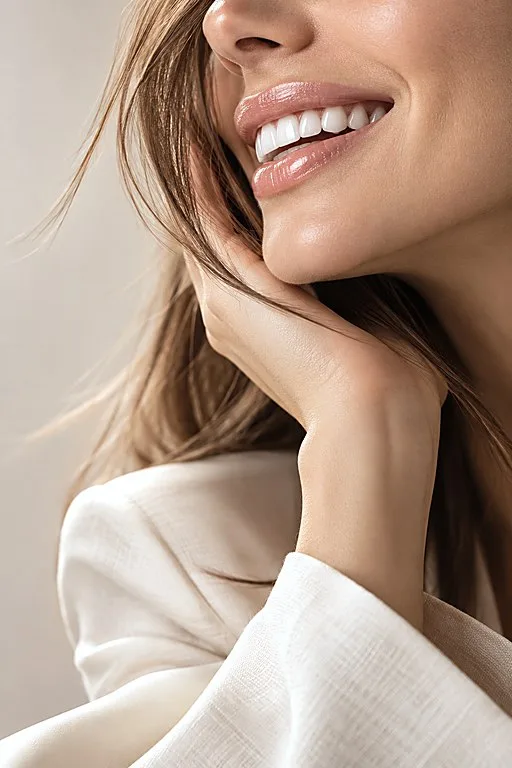
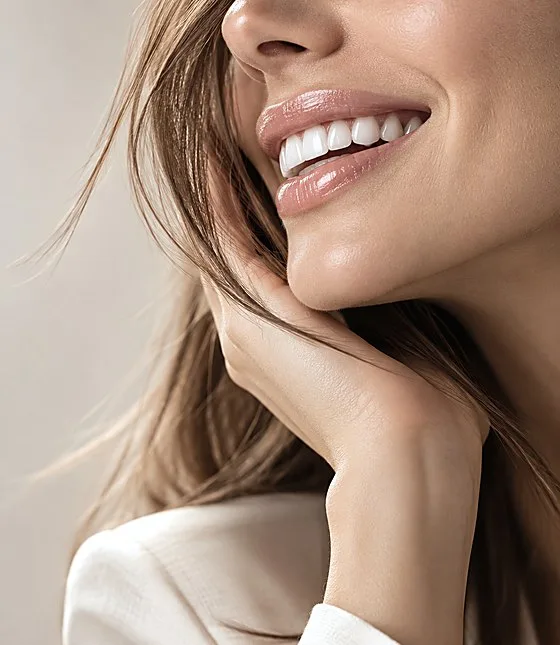
Galería nueva de cinco fotos y la portada centrada en la sonrisa
Galería
- Las cinco fotografías nuevas del consultorio, con la recepción primero.
  Todas a 4:5, el mismo tamaño y la misma calidez, para que se lean como
  una sola sesión.
- Cinco no reparte en filas limpias: a tres columnas quedan dos huecos, a
  dos queda uno. Las dos únicas distribuciones sin hueco son una fila de
  cinco y una tira que se desliza, así que se usa cada una donde cabe:
  rejilla de cinco a partir de 62em, tira con scroll-snap por debajo.
- La sección volvió sola al haber fotos, como estaba previsto.

Portada
- Recortado el faldón de abajo en las dos tomas, la del teléfono y la de
  escritorio. La sonrisa pasa de ocupar un quinto del encuadre a casi un
  tercio, que es lo que tiene que mandar.
- Las proporciones del CSS siguen a las de los archivos nuevos.

diff --git a/index.html b/index.html
@@ -206,10 +206,10 @@
            teléfono y la apaisada para escritorio. El <source media> deja que
            el navegador se baje solo la que le toca. -->
       <picture class="hero__bg">
-        <source media="(min-width: 56.25em)" type="image/webp" srcset="/assets/img/portada-ancha.webp 836w, /assets/img/portada-ancha@2x.webp 1672w" sizes="100vw">
+        <source media="(min-width: 56.25em)" type="image/webp" srcset="/assets/img/portada-ancha.webp 880w, /assets/img/portada-ancha@2x.webp 1760w" sizes="100vw">
         <source media="(min-width: 56.25em)" srcset="/assets/img/portada-ancha.jpg">
-        <source type="image/webp" srcset="/assets/img/portada-movil.webp 512w, /assets/img/portada-movil@2x.webp 1024w" sizes="100vw">
-        <img src="/assets/img/portada-movil.jpg" width="512" height="768" alt="Primer plano de una sonrisa, con la mano bajo el mentón" fetchpriority="high" decoding="async">
+        <source type="image/webp" srcset="/assets/img/portada-movil.webp 560w, /assets/img/portada-movil@2x.webp 1120w" sizes="100vw">
+        <img src="/assets/img/portada-movil.jpg" width="560" height="645" alt="Primer plano de una sonrisa, con la mano bajo el mentón" fetchpriority="high" decoding="async">
       </picture>
     </div>
   </section>
@@ -710,12 +710,42 @@
   <!-- ===== 12. El estudio ===== -->
   <section class="section" id="estudio">
     <div class="wrap">
-      <!-- Galería vacía a la espera de las fotos nuevas del consultorio.
-           Mientras no haya ningún <li>, js/main.js retira la sección entera
-           para que no quede un hueco en la página. En cuanto se añadan las
-           fotos aquí, la sección vuelve sola: no hay que tocar nada más.
-           Las fotos anteriores siguen en scripts/fotos-clinica/. -->
-      <ul class="galeria"></ul>
+      <!-- Las cinco a la misma proporción, 4:5, y en una sola fila en
+           escritorio: cinco no reparte en filas limpias, así que cualquier
+           otra rejilla deja huecos. Por debajo de 62em pasa a una tira que
+           se desliza con el dedo, que tampoco los deja. -->
+      <ul class="galeria">
+        <li class="galeria__foto rv" data-foto="recepcion">
+          <picture>
+            <source type="image/webp" srcset="/assets/img/clinica/recepcion.webp 640w, /assets/img/clinica/recepcion@2x.webp 1280w" sizes="(min-width: 62em) 19vw, 72vw">
+            <img src="/assets/img/clinica/recepcion.jpg" srcset="/assets/img/clinica/recepcion.jpg 640w, /assets/img/clinica/recepcion@2x.jpg 1280w" sizes="(min-width: 62em) 19vw, 72vw" width="640" height="800" loading="lazy" decoding="async" alt="Recepción de Dear Blanc, con el logotipo retroiluminado sobre el muro">
+          </picture>
+        </li>
+        <li class="galeria__foto rv" data-foto="cafe">
+          <picture>
+            <source type="image/webp" srcset="/assets/img/clinica/cafe.webp 640w, /assets/img/clinica/cafe@2x.webp 1280w" sizes="(min-width: 62em) 19vw, 72vw">
+            <img src="/assets/img/clinica/cafe.jpg" srcset="/assets/img/clinica/cafe.jpg 640w, /assets/img/clinica/cafe@2x.jpg 1280w" sizes="(min-width: 62em) 19vw, 72vw" width="640" height="800" loading="lazy" decoding="async" alt="Vaso de la casa y servilleta sobre la charola, en la sala de espera">
+          </picture>
+        </li>
+        <li class="galeria__foto rv" data-foto="escaner">
+          <picture>
+            <source type="image/webp" srcset="/assets/img/clinica/escaner.webp 640w, /assets/img/clinica/escaner@2x.webp 1280w" sizes="(min-width: 62em) 19vw, 72vw">
+            <img src="/assets/img/clinica/escaner.jpg" srcset="/assets/img/clinica/escaner.jpg 640w, /assets/img/clinica/escaner@2x.jpg 1280w" sizes="(min-width: 62em) 19vw, 72vw" width="640" height="800" loading="lazy" decoding="async" alt="Especialista revisando el escaneo de la sonrisa en una tableta">
+          </picture>
+        </li>
+        <li class="galeria__foto rv" data-foto="unidad">
+          <picture>
+            <source type="image/webp" srcset="/assets/img/clinica/unidad.webp 640w, /assets/img/clinica/unidad@2x.webp 1280w" sizes="(min-width: 62em) 19vw, 72vw">
+            <img src="/assets/img/clinica/unidad.jpg" srcset="/assets/img/clinica/unidad.jpg 640w, /assets/img/clinica/unidad@2x.jpg 1280w" sizes="(min-width: 62em) 19vw, 72vw" width="640" height="800" loading="lazy" decoding="async" alt="Unidad dental del consultorio, con el vaso de la casa y el lavabo al fondo">
+          </picture>
+        </li>
+        <li class="galeria__foto rv" data-foto="paciente">
+          <picture>
+            <source type="image/webp" srcset="/assets/img/clinica/paciente.webp 640w, /assets/img/clinica/paciente@2x.webp 1280w" sizes="(min-width: 62em) 19vw, 72vw">
+            <img src="/assets/img/clinica/paciente.jpg" srcset="/assets/img/clinica/paciente.jpg 640w, /assets/img/clinica/paciente@2x.jpg 1280w" sizes="(min-width: 62em) 19vw, 72vw" width="640" height="800" loading="lazy" decoding="async" alt="Paciente en el sillón, con audífonos y una bebida de la casa">
+          </picture>
+        </li>
+      </ul>
 
 </section>
 

diff --git a/css/editorial.css b/css/editorial.css
@@ -723,7 +723,7 @@ h3 {
      izquierda se convertía en una zona muerta enorme bajo el titular. Con
      la proporción de la imagen no sobra ni falta nada. */
   .hero {
-    min-height: 0; aspect-ratio: 1672 / 941;
+    min-height: 0; aspect-ratio: 1672 / 735;   /* la del archivo, recortado sobre la sonrisa */
     display: block; padding-block: 0;
     position: relative;
   }
@@ -767,7 +767,7 @@ h3 {
      que recortaba la cabeza era este margen. */
   /* En móvil entra la toma vertical, que ya viene encuadrada: no hay que
      recortarla, solo dejarla caer entera bajo el texto. */
-  .hero__bg { aspect-ratio: 2 / 3; margin-top: clamp(-1.25rem, -3vw, -.75rem); }
+  .hero__bg { aspect-ratio: 1024 / 1180; margin-top: clamp(-1.25rem, -3vw, -.75rem); }
   /* 90% y no 76%: ella está a dos tercios del encuadre original, así que
      con menos el recorte la dejaba a la izquierda y sobraba fondo a la
      derecha. Medido sobre la imagen escalada, 90% la centra. */
@@ -1498,44 +1498,44 @@ h3 { font-size: clamp(1.05rem, 1.7vw, 1.3rem); line-height: 1.3; }
    las acomoda solo y respeta la proporción de cada toma, que no es la misma
    en todas (cinco verticales, dos apaisadas).
    ========================================================================== */
+/* Cinco fotos, todas del mismo tamaño. Cinco no reparte en filas limpias:
+   a tres columnas quedan dos huecos, a dos queda uno. Las dos únicas
+   distribuciones sin hueco son una fila de cinco y una tira que se desliza,
+   así que se usa cada una donde cabe. */
 .galeria {
   list-style: none; padding: 0; margin: 0;
-  display: grid; gap: clamp(.5rem, 1.2vw, .9rem);
-  grid-template-columns: minmax(0, 1fr);
+  display: grid; gap: clamp(.5rem, 1.2vw, .85rem);
+  grid-auto-flow: column;
+  grid-auto-columns: 72%;
+  overflow-x: auto; scroll-snap-type: x mandatory;
+  overscroll-behavior-x: contain;
+  scrollbar-width: none;
+  padding-bottom: .25rem;
 }
-@media (min-width: 40em) { .galeria { grid-template-columns: repeat(2, minmax(0, 1fr)); } }
-@media (min-width: 62em) { .galeria { grid-template-columns: repeat(4, minmax(0, 1fr)); } }
+.galeria::-webkit-scrollbar { display: none; }
 
-/* Mosaico, no celdas iguales. Las seis tomas no comparten proporción:
-   cuatro son verticales 2:3 y dos apaisadas. Metidas todas en una celda
-   4:5, las apaisadas perdían más de un tercio del encuadre.
+@media (min-width: 40em) { .galeria { grid-auto-columns: 42%; } }
+@media (min-width: 62em) {
+  .galeria {
+    grid-auto-flow: row; grid-template-columns: repeat(5, minmax(0, 1fr));
+    grid-auto-columns: auto; overflow: visible; scroll-snap-type: none;
+  }
+}
 
-   Aquí cada una conserva la suya y el mosaico cuadra solo: una apaisada a
-   4:3 ocupando dos columnas mide exactamente lo mismo de alto que una
-   vertical 2:3 en una columna. Las filas salen parejas sin fijar altura. */
 .galeria__foto {
   position: relative; overflow: hidden;
-  aspect-ratio: 2 / 3;
+  aspect-ratio: 4 / 5;
+  scroll-snap-align: start;
   border: 1px solid var(--line);
   background: var(--paper-2);
 }
-.galeria__foto--ancha { grid-column: span 2; aspect-ratio: 4 / 3; }
-
 .galeria__foto picture { display: block; width: 100%; height: 100%; }
 .galeria__foto img {
   display: block; width: 100%; height: 100%;
   object-fit: cover;
   transition: transform .8s var(--ease);
 }
-.galeria__foto:hover img { transform: scale(1.04); }
-
-/* Encuadre por foto: el recorte tiene que caer donde está el motivo. */
-.galeria__foto[data-foto="recepcion"]   img { object-position: 100% center; }
-.galeria__foto[data-foto="sillon"]      img { object-position: 54% 30%; }
-.galeria__foto[data-foto="orquidea"]    img { object-position: center 38%; }
-.galeria__foto[data-foto="radiografia"] img { object-position: 58% 42%; }
-.galeria__foto[data-foto="unidad"]      img { object-position: center 45%; }
-.galeria__foto[data-foto="marco"]       img { object-position: center 55%; }
+.galeria__foto:hover img { transform: scale(1.05); }
 
 @media (prefers-reduced-motion: reduce) {
   .galeria__foto:hover img { transform: none; }
